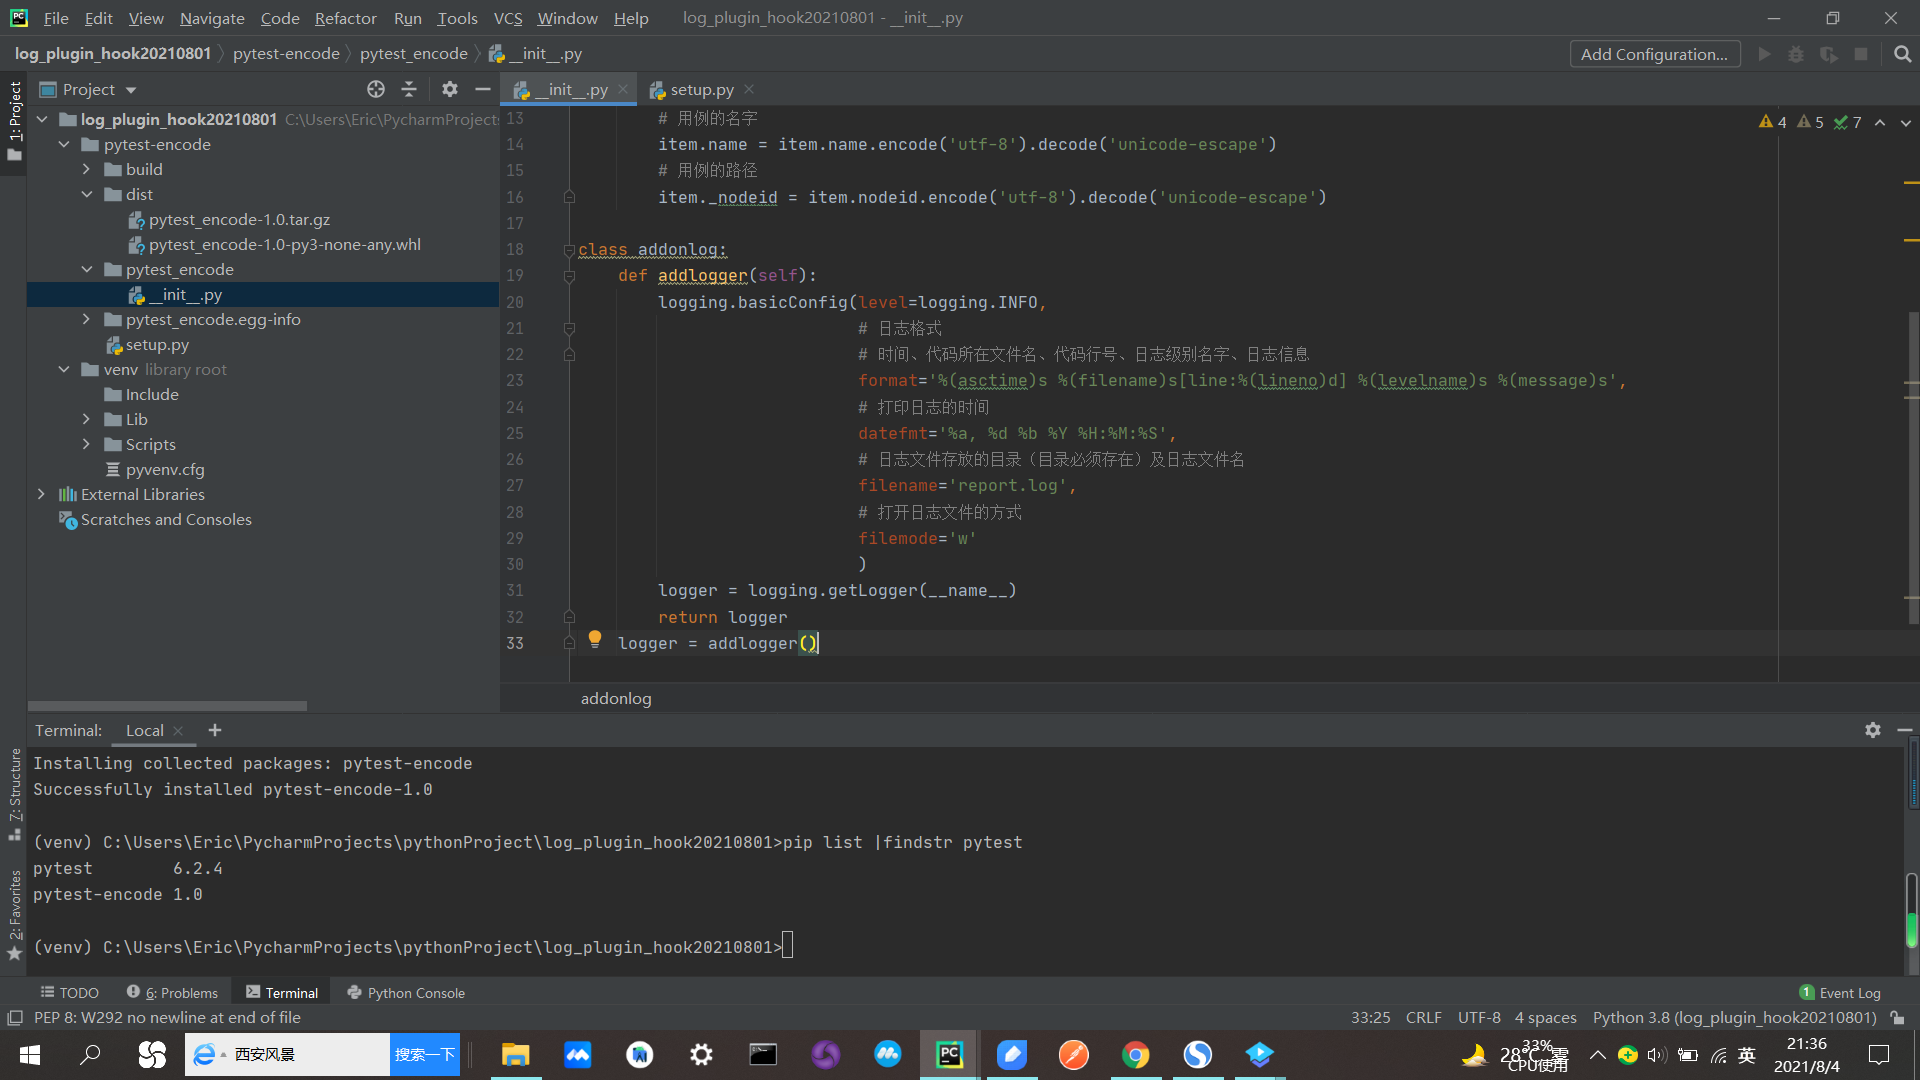
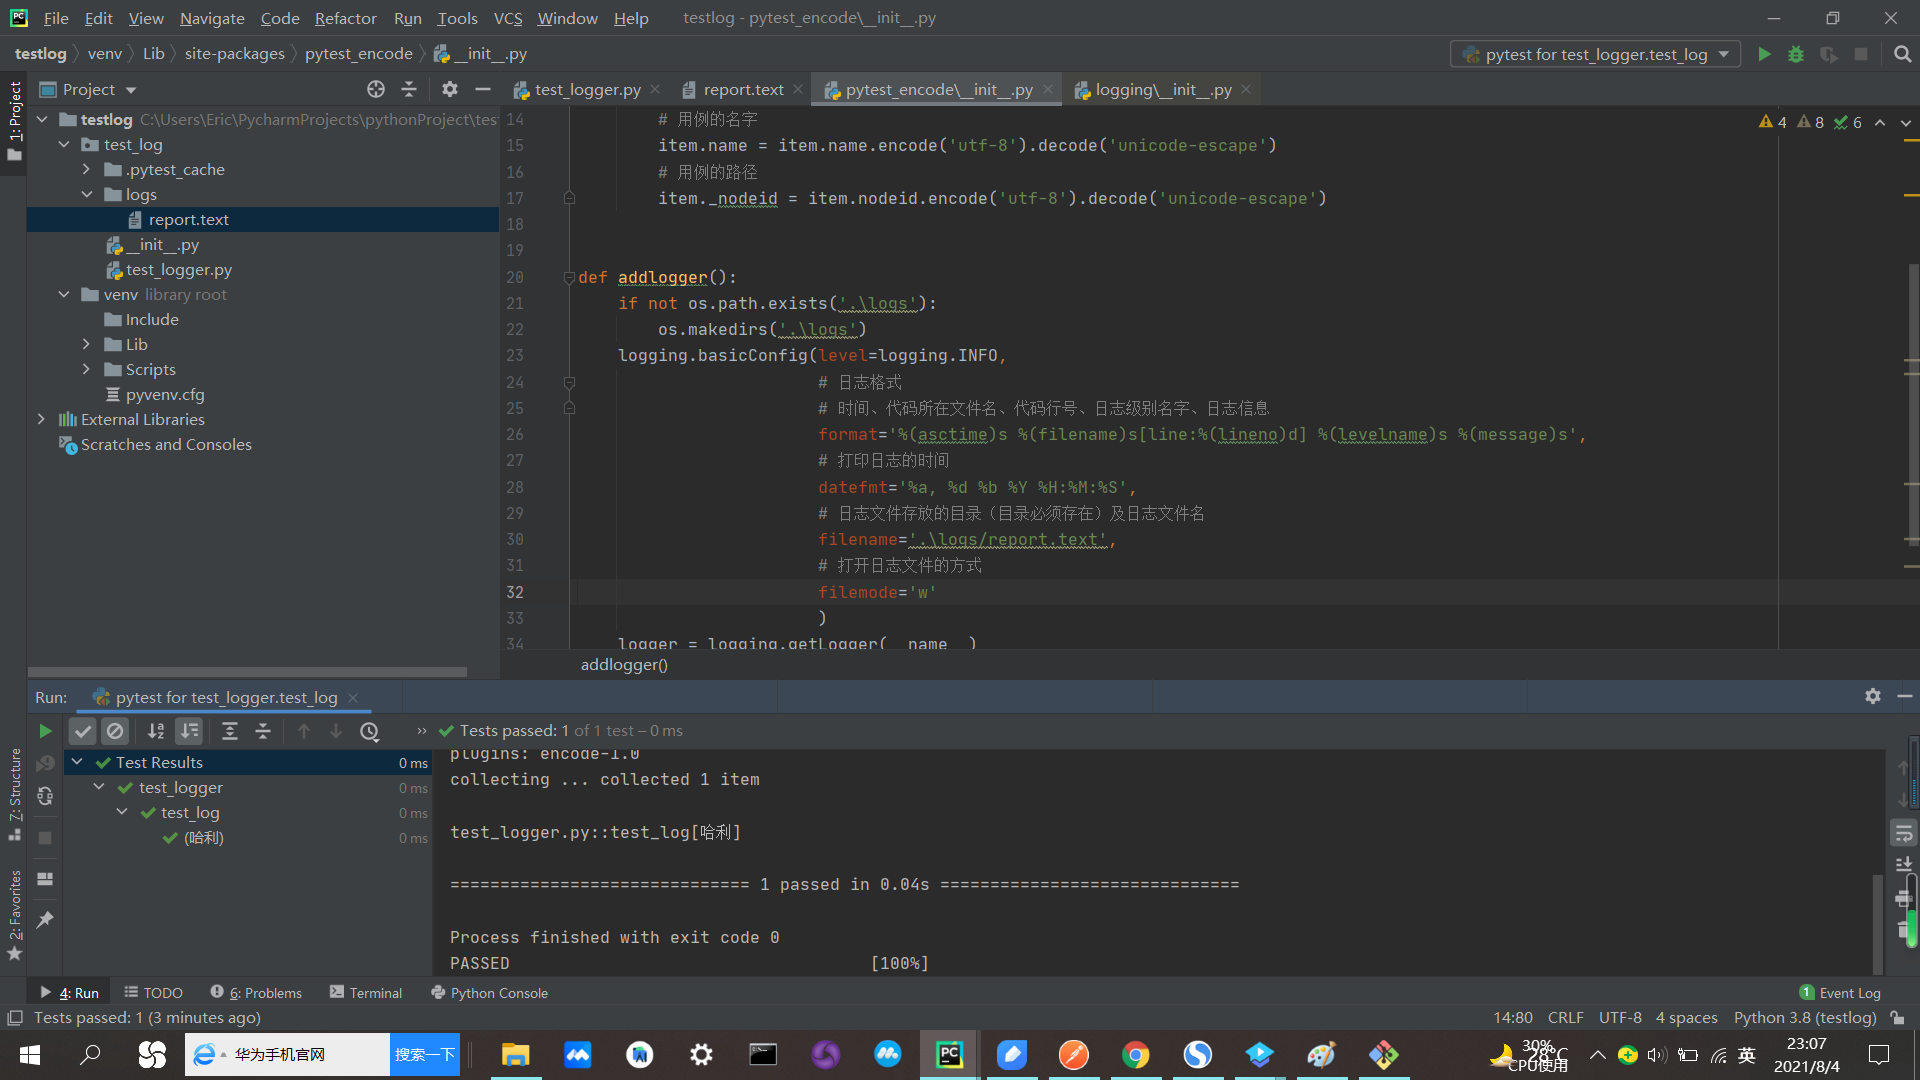
提交hook-日志打包作业

diff --git a/log_plugin_hook20210801/pytest-encode/build/lib/pytest_encode/__init__.py b/log_plugin_hook20210801/pytest-encode/build/lib/pytest_encode/__init__.py
@@ -1,4 +1,5 @@
 import logging
+import os
 from typing import List
 
 import pytest
@@ -15,19 +16,21 @@ def pytest_collection_modifyitems(
         # 用例的路径
         item._nodeid = item.nodeid.encode('utf-8').decode('unicode-escape')
 
-class addonlog:
-    def addlogger(self):
-        logging.basicConfig(level=logging.INFO,
-                            # 日志格式
-                            # 时间、代码所在文件名、代码行号、日志级别名字、日志信息
-                            format='%(asctime)s %(filename)s[line:%(lineno)d] %(levelname)s %(message)s',
-                            # 打印日志的时间
-                            datefmt='%a, %d %b %Y %H:%M:%S',
-                            # 日志文件存放的目录（目录必须存在）及日志文件名
-                            filename='report.log',
-                            # 打开日志文件的方式
-                            filemode='w'
-                            )
-        logger = logging.getLogger(__name__)
-        return logger
-    logger = addlogger()
+
+def addlogger():
+    if not os.path.exists('.\logs'):
+        os.makedirs('.\logs')
+    logging.basicConfig(level=logging.INFO,
+                        # 日志格式
+                        # 时间、代码所在文件名、代码行号、日志级别名字、日志信息
+                        format='%(asctime)s %(filename)s[line:%(lineno)d] %(levelname)s %(message)s',
+                        # 打印日志的时间
+                        datefmt='%a, %d %b %Y %H:%M:%S',
+                        # 日志文件存放的目录（目录必须存在）及日志文件名
+                        filename='.\logs/report.text',
+                        # 打开日志文件的方式
+                        filemode='w'
+                        )
+    logger = logging.getLogger(__name__)
+    return logger
+logger = addlogger()

diff --git a/log_plugin_hook20210801/pytest-encode/pytest_encode/__init__.py b/log_plugin_hook20210801/pytest-encode/pytest_encode/__init__.py
@@ -1,4 +1,5 @@
 import logging
+import os
 from typing import List
 
 import pytest
@@ -15,19 +16,21 @@ def pytest_collection_modifyitems(
         # 用例的路径
         item._nodeid = item.nodeid.encode('utf-8').decode('unicode-escape')
 
-class addonlog:
-    def addlogger(self):
-        logging.basicConfig(level=logging.INFO,
-                            # 日志格式
-                            # 时间、代码所在文件名、代码行号、日志级别名字、日志信息
-                            format='%(asctime)s %(filename)s[line:%(lineno)d] %(levelname)s %(message)s',
-                            # 打印日志的时间
-                            datefmt='%a, %d %b %Y %H:%M:%S',
-                            # 日志文件存放的目录（目录必须存在）及日志文件名
-                            filename='report.log',
-                            # 打开日志文件的方式
-                            filemode='w'
-                            )
-        logger = logging.getLogger(__name__)
-        return logger
-    logger = addlogger()
+
+def addlogger():
+    if not os.path.exists('.\logs'):
+        os.makedirs('.\logs')
+    logging.basicConfig(level=logging.INFO,
+                        # 日志格式
+                        # 时间、代码所在文件名、代码行号、日志级别名字、日志信息
+                        format='%(asctime)s %(filename)s[line:%(lineno)d] %(levelname)s %(message)s',
+                        # 打印日志的时间
+                        datefmt='%a, %d %b %Y %H:%M:%S',
+                        # 日志文件存放的目录（目录必须存在）及日志文件名
+                        filename='.\logs/report.text',
+                        # 打开日志文件的方式
+                        filemode='w'
+                        )
+    logger = logging.getLogger(__name__)
+    return logger
+logger = addlogger()

diff --git a/log_plugin_hook20210801/test_log/test_logger.py b/log_plugin_hook20210801/test_log/test_logger.py
@@ -1,0 +1,6 @@
+import pytest
+from pytest_encode import logger
+
+@pytest.mark.parametrize("name",["哈利"])
+def test_log(name):
+    logger.info(f"name:{name}")
